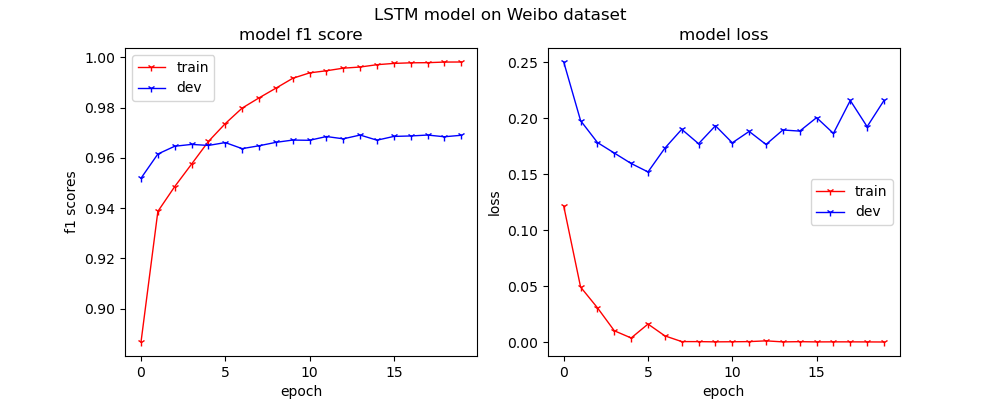
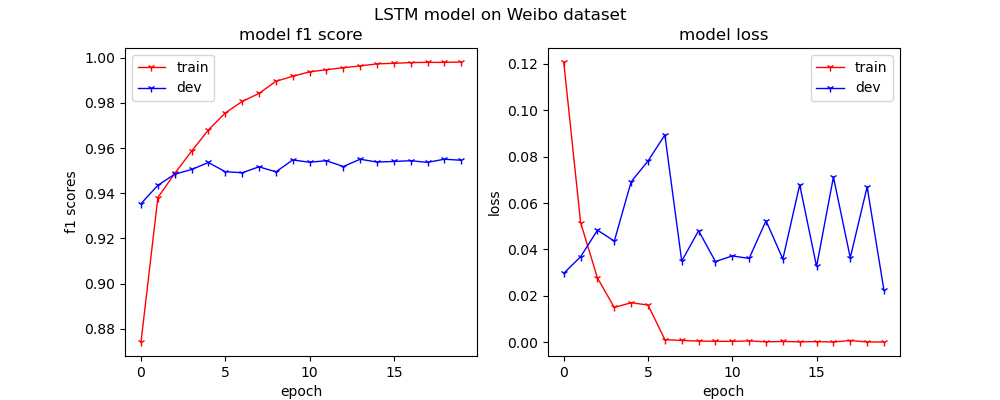
save

diff --git a/my_ner.py b/my_ner.py
@@ -492,10 +492,11 @@ class LSTM_CRF_Model(nn.Module):
         self.loss_fun = self.cal_lstm_crf_loss
 
 
-
-    # 完全看不懂
     def cal_lstm_crf_loss(self, crf_scores, targets):
-        # 该损失函数的计算可以参考: https: // arxiv.org / pdf / 1603.01360.pdf
+        # size  = [10, 176, 20, 20]; [10, 176]
+        # targets = tags
+
+        # init
         global tag_to_id
         pad_id = tag_to_id.get('<PAD>')
         start_id = tag_to_id.get('<START>')
@@ -508,8 +509,12 @@ class LSTM_CRF_Model(nn.Module):
         target_size = len(tag_to_id)
 
         # mask = 1 - ((targets == pad_id) + (targets == end_id))  # [B, L]
+        # mask = a tensor of True/False; not_pad/pad;
         mask = (targets != pad_id)
+        # number of True/not_pad
         lengths = mask.sum(dim=1)
+        # input: ( tags of [10, 176]; 20; 19 )
+        # output: (0~380) [10, 176]
         targets = self.indexed(targets, target_size, start_id)
 
         # # 计算Golden scores方法１
@@ -556,13 +561,19 @@ class LSTM_CRF_Model(nn.Module):
         loss = (all_path_scores - golden_scores) / batch_size
         return loss
 
-    # 完全看不懂
+    # (0~19) -> (0~380)
     def indexed(self, targets, tagset_size, start_id):
-        """将targets中的数转化为在[T*T]大小序列中的索引,T是标注的种类"""
+        # input: ( tags of [10, 176]; 20; 19 )
+        """将targets中的数转化为-> 在[T*T]大小序列中的索引,T是标注的种类"""
         batch_size, max_len = targets.size()
-        for col in range(max_len - 1, 0, -1):
+        for col in range(max_len - 1, 0, -1):  # reverse (175 -> 0)
+            # col = 175;
+            # targets[:, col - 1] = [ 0, 18, 18, 18, 18, 18, 18, 18, 18, 18]
+            # targets[:, col] += up*20
             targets[:, col] += (targets[:, col - 1] * tagset_size)
+        # 19*20
         targets[:, 0] += (start_id * tagset_size)
+        # still [10, 176]
         return targets
 
     def forward(self, batch_data, batch_onerad, batch_tag=None):
@@ -597,11 +608,13 @@ class LSTM_CRF_Model(nn.Module):
         crf_scores = emission.unsqueeze(2).expand(-1, -1, out_size, -1) + self.transition
 
         if batch_tag is not None:  # training
+            # [10, 176, 20, 20]; [10, 176]
             loss = self.cal_lstm_crf_loss(crf_scores, batch_tag)
             return loss
         else:  # when do prediction
             return crf_scores
 
+    # Find the best path, given the features(emission scores).
     def test(self, test_sents_tensor, test_onerad_tensor, lengths):
         """使用维特比算法进行解码"""
         global tag_to_id
@@ -912,7 +925,7 @@ if __name__ == "__main__":
     # training setting
     epoch = 20
     train_batch_size = 10
-    dev_batch_size = 100
+    dev_batch_size = 10
     test_batch_size = 1
     # reduce 0-300
     embedding_num = 200

diff --git a/learn-crf.py b/learn-crf.py
@@ -284,6 +284,7 @@ if __name__ == "__main__":
 
             # Step 3. Run our forward pass.
             loss = model.neg_log_likelihood(sentence_in, targets)
+            print(loss)
 
             # Step 4. Compute the loss, gradients, and update the parameters by
             # calling optimizer.step()
